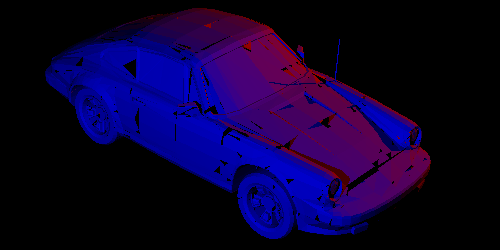
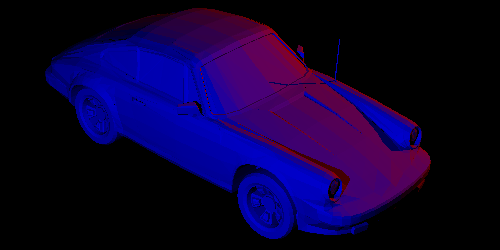
weniger leafs

diff --git a/src/MixedArray.cpp b/src/MixedArray.cpp
@@ -6,6 +6,12 @@
 #include <iostream>
 #include <limits>
 #include <sys/types.h>
+#include <vector>
+
+#define MINFACES 20
+#define LEFTLEAF 0b10000000
+#define RIGHTLEAF 0b01000000
+#define AXES 0b00000011
 
 MixedArray::MixedArray(std::vector<Face3D*> faces, int maxDepth, BoundingBox box){
     this->box = box;
@@ -13,8 +19,9 @@ MixedArray::MixedArray(std::vector<Face3D*> faces, int maxDepth, BoundingBox box
 }
 
 size_t MixedArray::buildArray(std::vector<Face3D*> faces,BoundingBox box, uint8_t depth){
-    size_t facesSize = faces.size();
-    if(depth <= 0 || facesSize < 30){
+    IBinaryDisect::cntLeafs++;
+    /*size_t facesSize = faces.size();
+    if(depth <= 0 || facesSize < MINFACES){
         IBinaryDisect::sumFaces+=facesSize;
         IBinaryDisect::cntLeafs++;
         if(facesSize > IBinaryDisect::mostFaces){
@@ -26,7 +33,7 @@ size_t MixedArray::buildArray(std::vector<Face3D*> faces,BoundingBox box, uint8_
             0,4,(ushort)(Leafs.size()-1), 0
         });
         return Disects.size() - 1;
-    }
+    }*/
 
     //beste Teilung finden
     uint8_t axis = 0;
@@ -41,26 +48,47 @@ size_t MixedArray::buildArray(std::vector<Face3D*> faces,BoundingBox box, uint8_
 
     float splitValue = calcDisectValue(axis, faces);
 
+    /*
     std::vector<Face3D*> leftFaces, rightFaces;
     for (auto f : faces) {
         if (f->middlePoint().at(axis) <= splitValue) leftFaces.push_back(f);
-        else rightFaces.push_back(f);
+        else rightFaces.push_back(f);first
     }
+    */
+
+    std::pair<std::vector<Face3D*>, std::vector<Face3D*>> disfaces = calcDisect(faces, axis, splitValue);
+
     // Create child boxes
     BoundingBox leftBox = box;
     BoundingBox rightBox = box;
     leftBox.p2.at(axis) = splitValue;
     rightBox.p1.at(axis) = splitValue;
-        this->Disects.push_back(Disect{
+    this->Disects.push_back(Disect{
         splitValue,
         axis,
         0,
         0
     });
-    size_t pos = Disects.size() - 1;
-    size_t left = buildArray(leftFaces, leftBox, depth-1);
-    size_t right = buildArray(rightFaces, rightBox, depth-1);
-    
+    size_t left,right,pos = Disects.size() - 1;
+
+    if(disfaces.first.size() < MINFACES || depth <= 0){
+        this->Disects.at(pos).dir |= LEFTLEAF;
+        this->Leafs.push_back(disfaces.first);
+        left = this->Leafs.size() - 1;
+        IBinaryDisect::incrCounters(disfaces.first.size());
+    }else{
+        left = buildArray(disfaces.first, leftBox, depth-1);
+    }
+
+    if(disfaces.second.size() < MINFACES || depth <= 0){
+        this->Disects.at(pos).dir |= RIGHTLEAF;
+        this->Leafs.push_back(disfaces.second);
+        right = this->Leafs.size() - 1;
+        IBinaryDisect::incrCounters(disfaces.second.size());
+    }else{
+        right = buildArray(disfaces.second, rightBox, depth-1);
+    }
+
     this->Disects.at(pos).left = left;
     this->Disects.at(pos).right = right;
 
@@ -77,6 +105,7 @@ Hitpoint MixedArray::calcHP(Ray& ray, ushort pos, BoundingBox box){
     }
 
     Disect disect = Disects.at(pos);
+    /*
     if(disect.dir == 4){
         Hitpoint closest;
         for(Face3D* face : Leafs[disect.left]) {
@@ -85,42 +114,46 @@ Hitpoint MixedArray::calcHP(Ray& ray, ushort pos, BoundingBox box){
                 closest = hit;
         }
         return closest;
-    }
+    }*/
 
     BoundingBox lbox = box;
     BoundingBox rbox = box;
     float disectValue = disect.value;
-    lbox.p2.at(disect.dir) = disectValue;
-    rbox.p1.at(disect.dir) = disectValue;
+    lbox.p2.at(disect.dir & AXES) = disectValue;
+    rbox.p1.at(disect.dir & AXES) = disectValue;
 
-
-    //if(std::fabs(ray.direction.at(disect.dir)) <= std::numeric_limits<float>::epsilon()){
-        Hitpoint h1 = calcHP(ray, disect.left, lbox);
-        Hitpoint h2 = calcHP(ray, disect.right, rbox);
-        return h1.distance < h2.distance ? h1 : h2;
-    //}
-
-    if(ray.direction.at(disect.dir) > 0) {
-        Hitpoint h1 = calcHP(ray, disect.left, lbox);
-        if (h1.face != NULL && contains(box, h1.position)) { //eigentlich müsste in alle Richtungen geclipt werdem, geht aber erstaml so
+    if(ray.direction.at(disect.dir & 0b00000011) > 0) {
+        Hitpoint h1 = calcDisectHP(ray, disect.left, lbox, disect.dir & LEFTLEAF);
+        if (h1.face != NULL && contains(lbox, h1.position)) { //eigentlich müsste in alle Richtungen geclipt werdem, geht aber erstaml so
             return h1;
         }
-        return calcHP(ray, disect.right, rbox);
+        return calcDisectHP(ray, disect.right, rbox, disect.dir & RIGHTLEAF);
     }else{
-        Hitpoint h2 = calcHP(ray, disect.right, rbox);
-        if (h2.face != NULL && contains(box, h2.position)) {
+        Hitpoint h2 = calcDisectHP(ray, disect.right, rbox, disect.dir & RIGHTLEAF);
+        if (h2.face != NULL && contains(rbox, h2.position)) { //eigentlich müsste in alle Richtungen geclipt werdem, geht aber erstaml so
             return h2;
         }
-        return calcHP(ray, disect.left, lbox);
+        return calcDisectHP(ray, disect.left, lbox, disect.dir & LEFTLEAF);
     }
-    /*
-
-    Hitpoint h1 = calcHP(ray, disect.left, lbox);
-    Hitpoint h2 = calcHP(ray, disect.right, rbox);
-    return h1.distance < h2.distance ? h1 : h2;
-    */
 }
 
 void MixedArray::dealoc() {
     delete this;
+}
+
+Hitpoint MixedArray::calcDisectHP(Ray& ray, ushort disectSide, BoundingBox box, bool isLeaf){
+    Hitpoint HP;
+    if(isLeaf){
+        //std::cout << "side: " << disectSide << std::endl;
+        if(ray.check(box)){
+            for(Face3D* face : Leafs[disectSide]) {
+                Hitpoint hit = ray.check(*face);
+                if(hit.distance < HP.distance)
+                    HP = hit;
+            }
+        }  
+    }else{
+        HP = calcHP(ray, disectSide, box);
+    }
+    return HP;
 }

diff --git a/include/MixedArray.hpp b/include/MixedArray.hpp
@@ -10,8 +10,9 @@
 
 struct Disect{
     float value;
-    uint8_t dir; // dir=4 -> Blatt
-    ushort left; // wird zu position der faces, fals Blatt
+    uint8_t dir; // höchstes bit 1 -> links blatt, 2. höchstes: rechts Blatt
+    ushort left;
+    //ushort middle;
     ushort right;
 };
 
@@ -22,6 +23,7 @@ class MixedArray : public IBinaryDisect{
 
     size_t buildArray(std::vector<Face3D*> faces, BoundingBox box, uint8_t depth);
     Hitpoint calcHP(Ray& ray, ushort pos, BoundingBox box);
+    Hitpoint calcDisectHP(Ray&,ushort, BoundingBox, bool);
 
     public:
     MixedArray(const MixedArray&) = delete;

diff --git a/include/IBinaryDisect.hpp b/include/IBinaryDisect.hpp
@@ -2,6 +2,10 @@
 
 #include "Hitpoint.hpp"
 #include "Ray.hpp"
+#include <cstddef>
+#include <vector>
+#include "Face3D.hpp"
+
 class IBinaryDisect{
     public:
         virtual Hitpoint closestHitpoint(Ray&) = 0;
@@ -11,5 +15,7 @@ class IBinaryDisect{
     static int mostFaces;
     static int sumFaces;
     static int cntLeafs;
+
+    static void incrCounters(size_t);
 };
 

diff --git a/src/Scene.cpp b/src/Scene.cpp
@@ -341,3 +341,10 @@ bool contains(BoundingBox box, Vector3D vec){
 	}
 	return true;
 }
+
+void IBinaryDisect::incrCounters(size_t size){
+	IBinaryDisect::sumFaces+=size;
+	if(size > IBinaryDisect::mostFaces){
+		IBinaryDisect::mostFaces = size;
+	}
+}

diff --git a/src/main.cpp b/src/main.cpp
@@ -23,7 +23,7 @@ int main(int argc, char **argv)
         return -1;
     }
 
-    test.loadFile(file,20);
+    test.loadFile(file,15);
 
     int type;
     bool safe;
